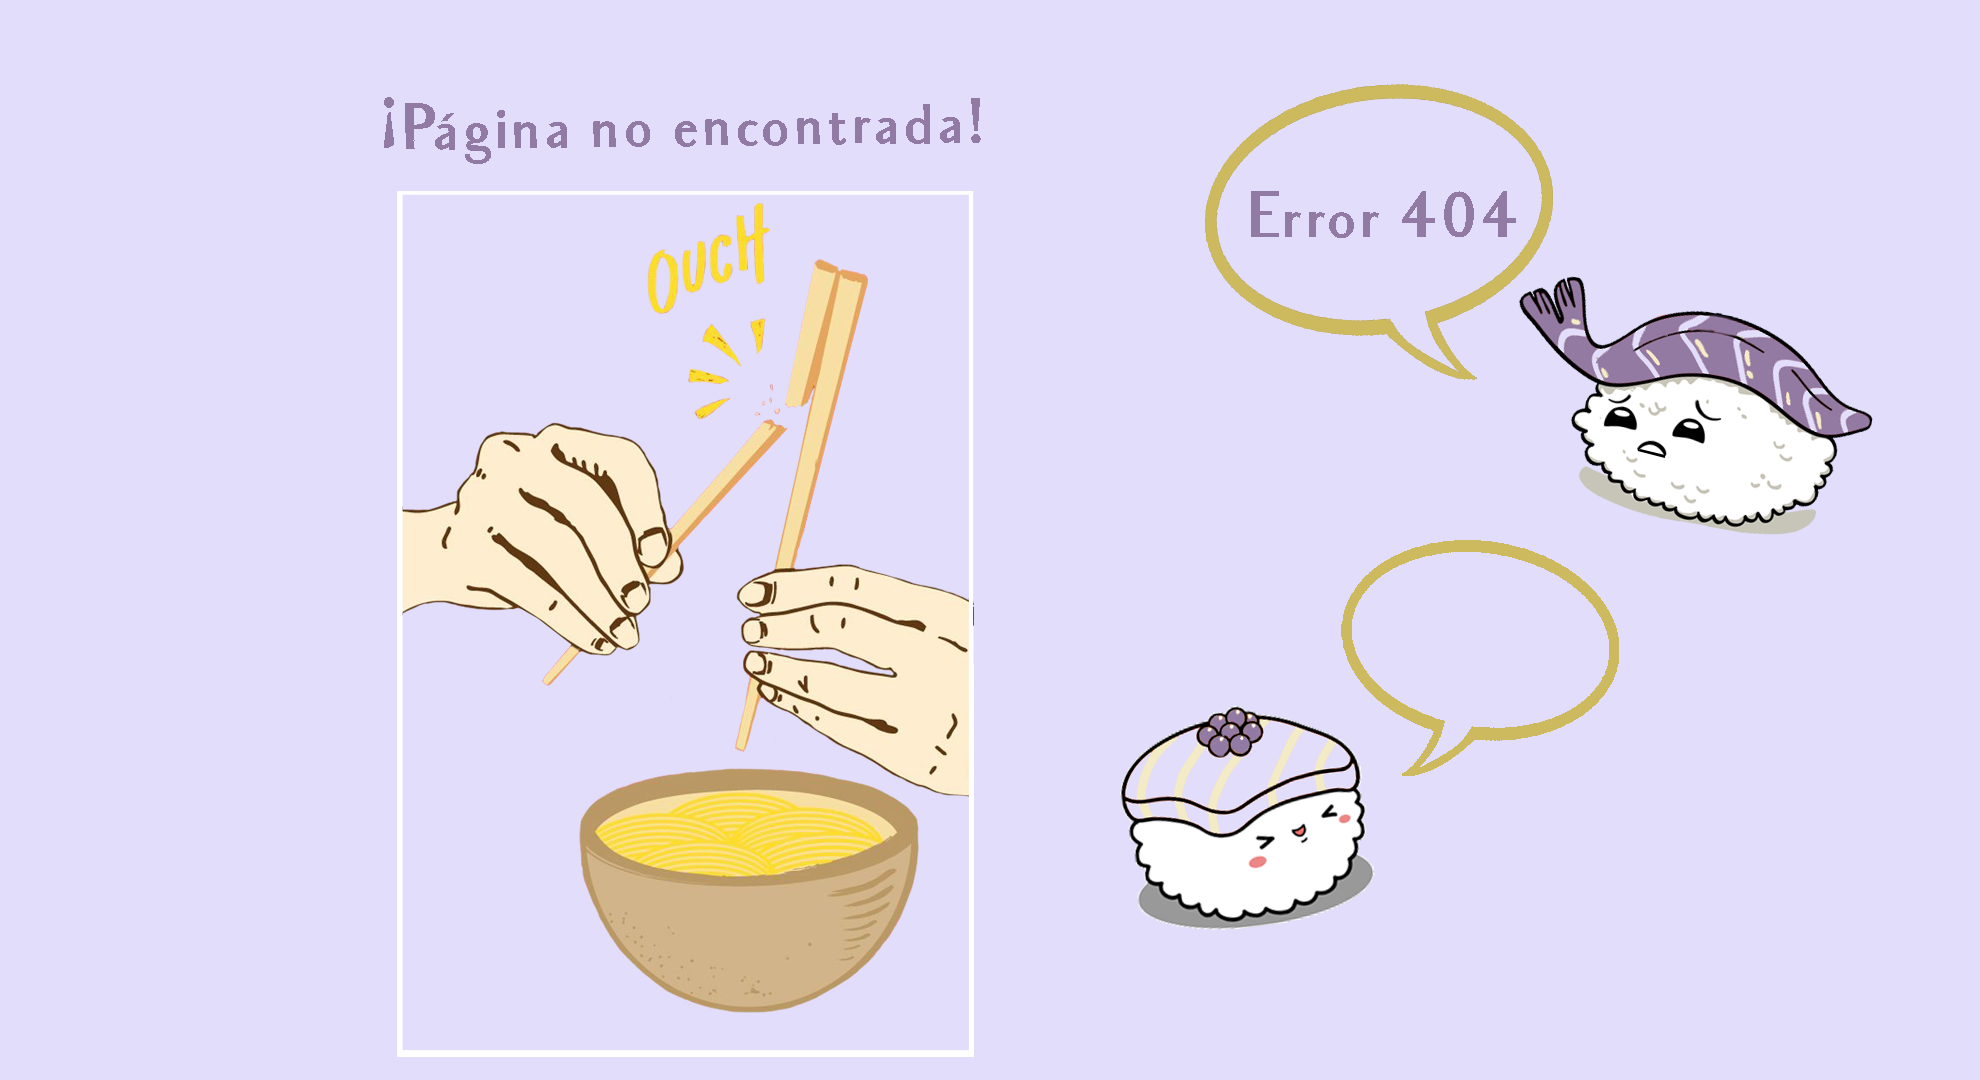
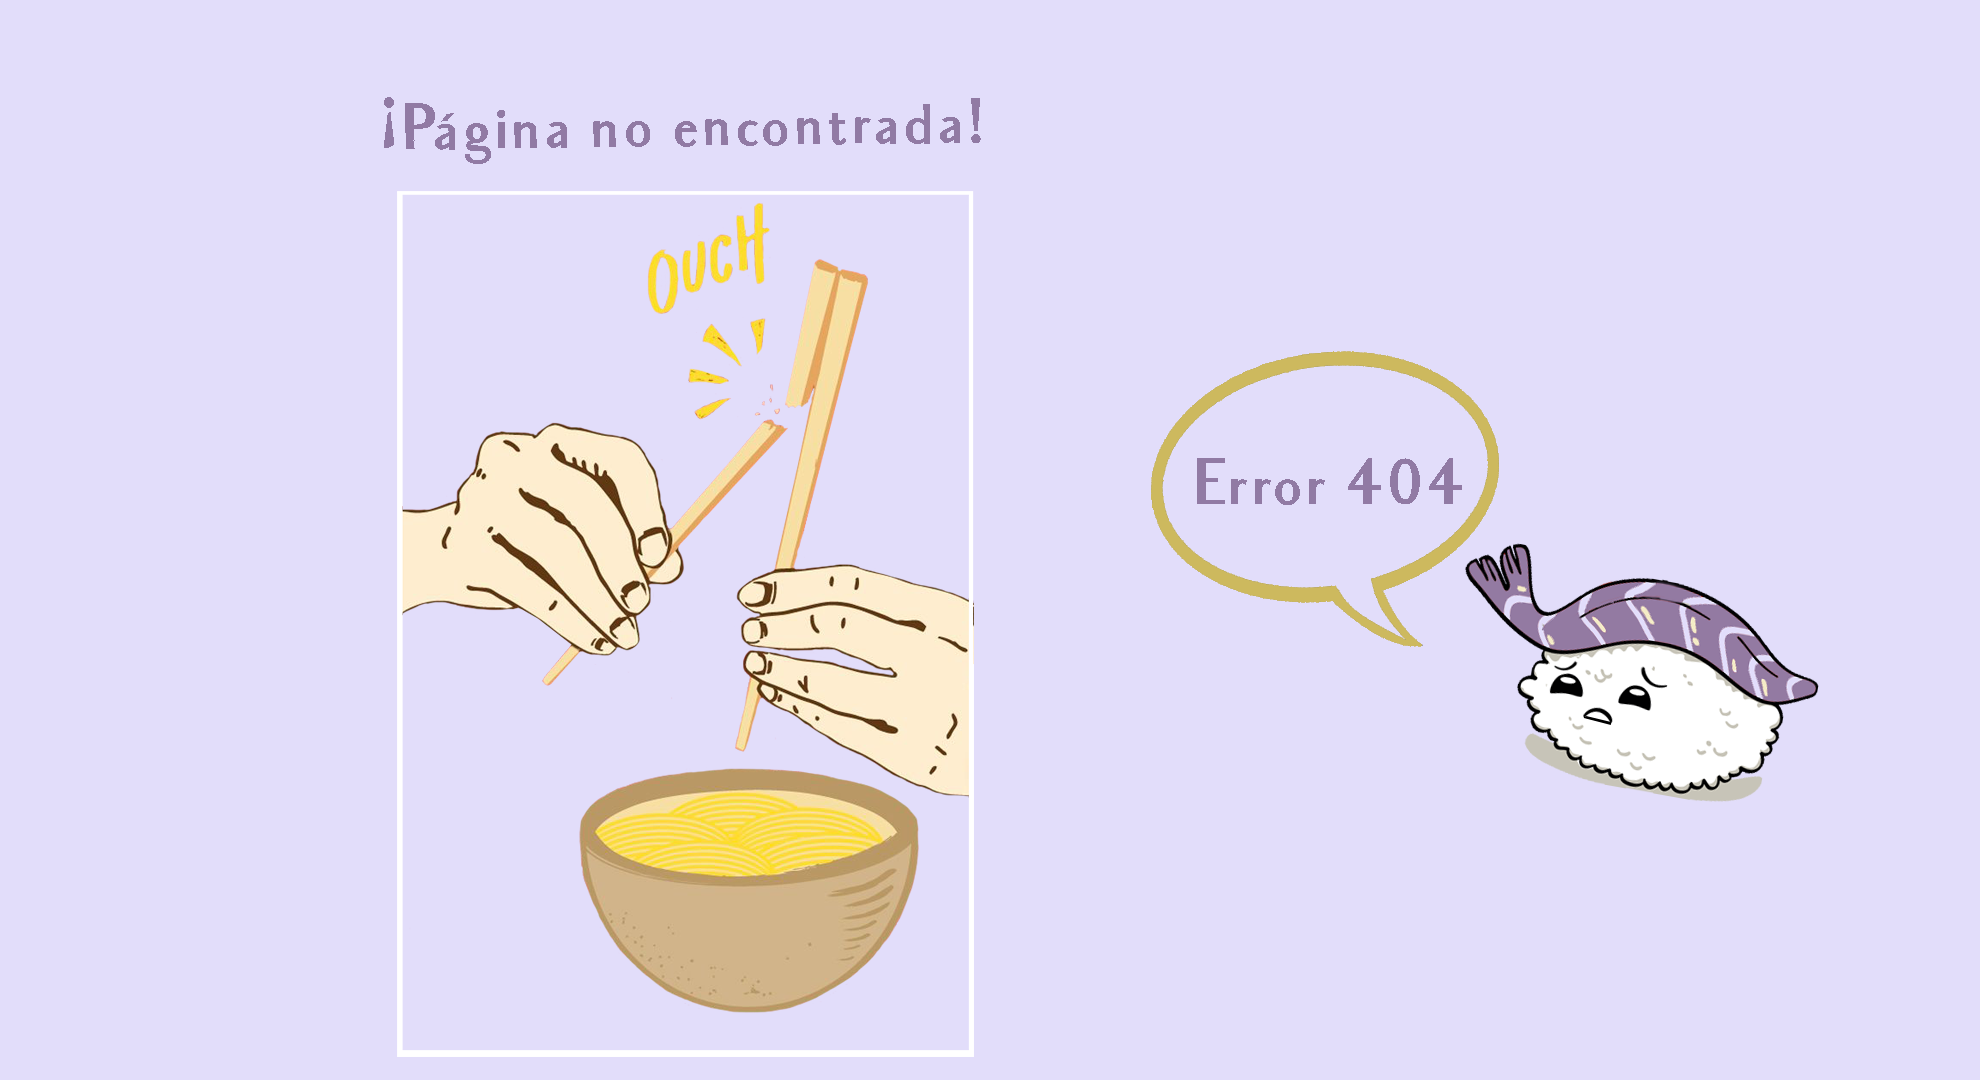
added routing main menu + 404page

Changed region(s): [[0.5545, 0.0917, 0.9551, 0.8556], [0.6778, 0.0611, 0.7394, 0.0917], [0.7394, 0.0917, 0.7702, 0.1222]]

diff --git a/ecommerce/src/containers/header/headerFija.jsx b/ecommerce/src/containers/header/headerFija.jsx
@@ -1,5 +1,6 @@
 import React from "react";
 import "./headerFija.css";
+import { NavLink } from "react-router-dom";
 
 class headerFija extends React.Component {
 
@@ -12,7 +13,7 @@ class headerFija extends React.Component {
             <div id="header">
                 <nav id="menu">
                     <div id="logoheader"></div>
-                    <button  class="menubuttons" id="orderbutton">Pedido</button>
+                    <NavLink to="/menu"  class="menubuttons" id="orderbutton">Pedido</NavLink>
                     <button class="menubuttons" id="cartbutton">Cesta</button>
                     <div id="logocart"></div>
                 </nav>

diff --git a/ecommerce/src/App.jsx b/ecommerce/src/App.jsx
@@ -18,8 +18,12 @@ import Subheader from "./containers/Subheader/subheader.jsx";
 function App() {
   return (
     <div className="App">
-      <HeaderFija />
+
       <Router>
+
+      <HeaderFija />
+
+
         <Switch>
           <Route path="/login" exact component={Login} />
           <Route path="/register" exact component={Register} />
@@ -28,6 +32,7 @@ function App() {
           <Route component={Error} />  {/*Esta ruta siempre al final, es la del 404*/}
         </Switch>
       </Router>
+
     </div>
   );
 }

diff --git a/ecommerce/src/containers/Error 404/error.jsx b/ecommerce/src/containers/Error 404/error.jsx
@@ -1,5 +1,6 @@
 import React from "react";
 import "./error.css";
+import { NavLink } from "react-router-dom";
 
 
 class slider extends React.Component {
@@ -8,7 +9,7 @@ class slider extends React.Component {
         return (
 
             <div id="errorContainer">
-                <button id="errorbutton">Vuelve al inicio</button>
+                <NavLink to="/" id="errorbutton">Vuelve al inicio</NavLink>
             </div>
 
         );

diff --git a/ecommerce/src/containers/Error 404/error.css b/ecommerce/src/containers/Error 404/error.css
@@ -11,8 +11,8 @@
     #errorbutton {
         display: flex;
         position: absolute;
-        margin-top: 23.2em;
-        margin-left: 52.8em;
+        margin-top: 4.2em;
+        margin-left: 46.8em;
         background-color: #e2ddfa;
         color: #917aa4;
            
